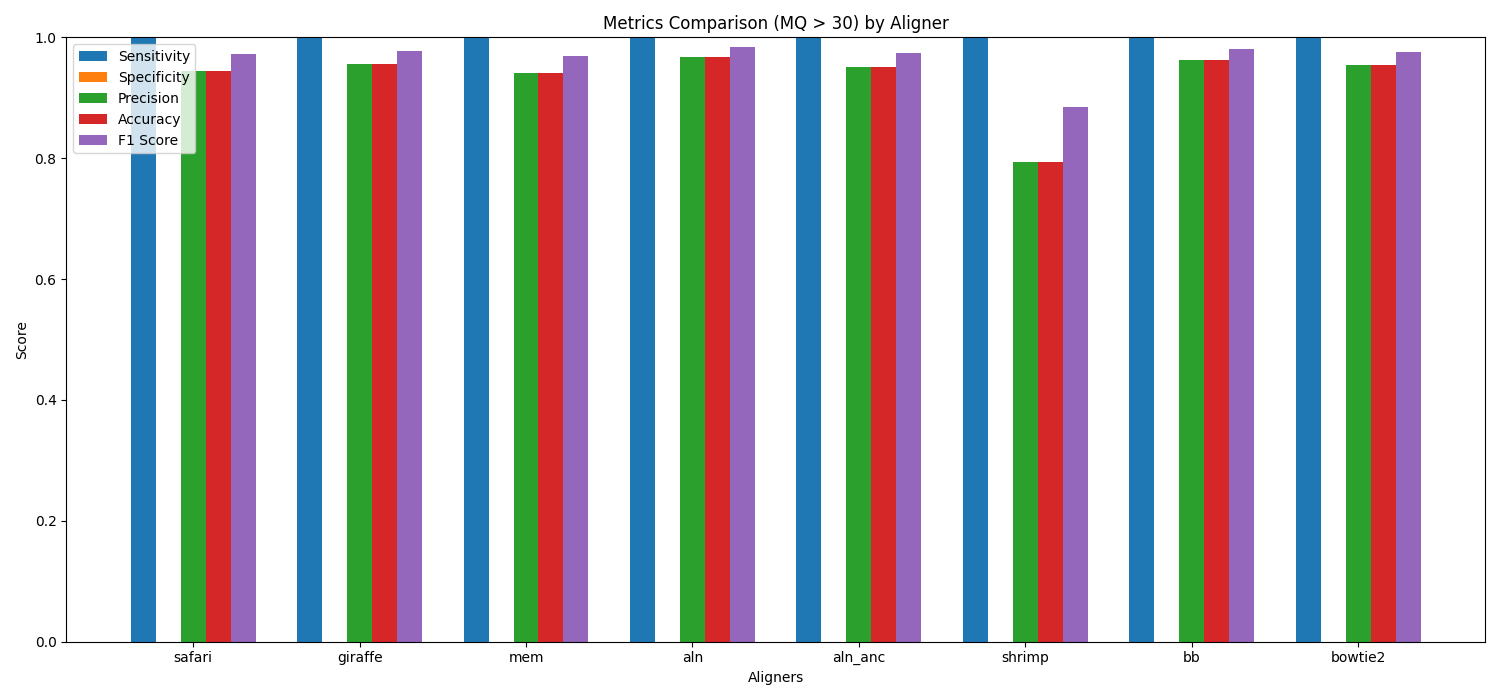
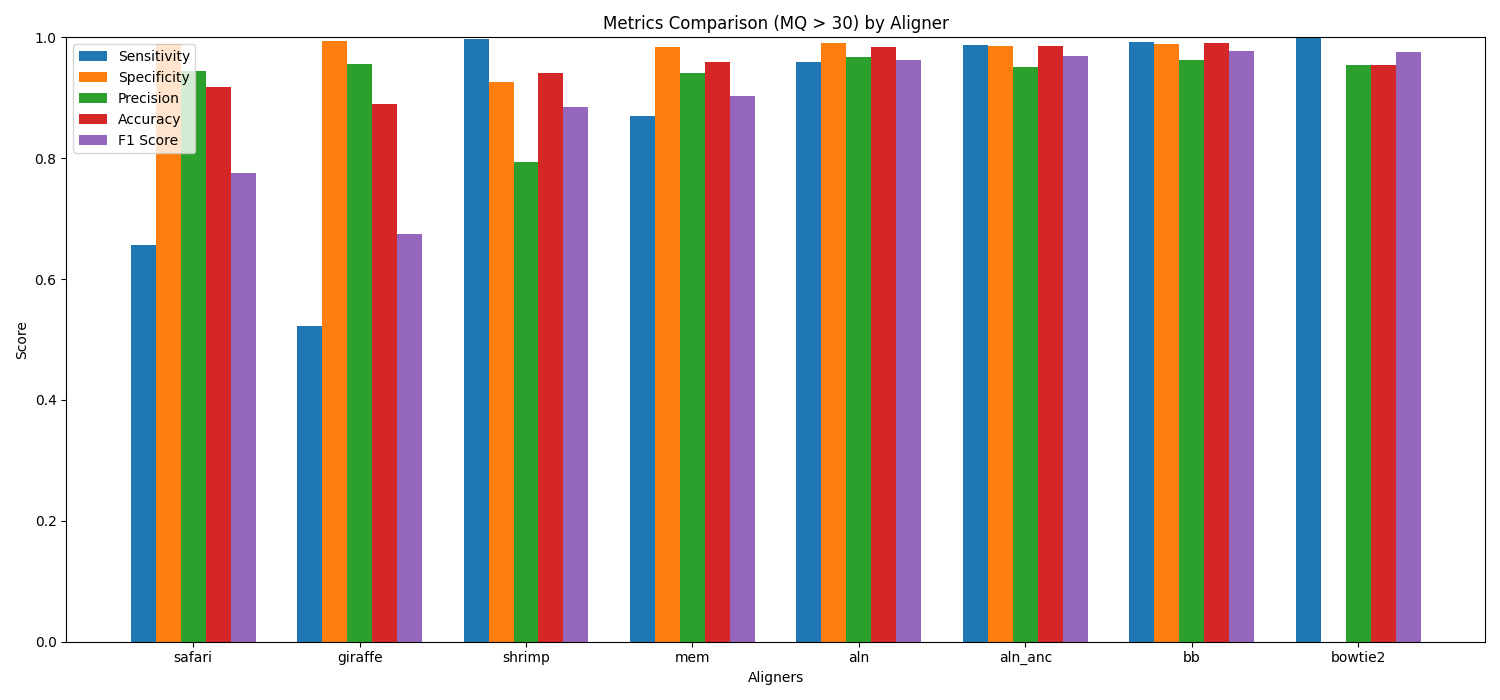
Update

diff --git a/linear_experiment/human_mito/linear_benchmark.py b/linear_experiment/human_mito/linear_benchmark.py
@@ -1,4 +1,5 @@
 import csv
+import numpy as np
 import matplotlib.pyplot as plt
 
 def calculate_metrics(TP, FP, TN, FN):
@@ -8,14 +9,6 @@ def calculate_metrics(TP, FP, TN, FN):
     accuracy = (TP + TN) / (TP + FP + TN + FN) if TP + FP + TN + FN != 0 else 0
     f1_score = 2 * (precision * sensitivity) / (precision + sensitivity) if precision + sensitivity != 0 else 0
     return sensitivity, specificity, precision, accuracy, f1_score
-
-def report_metrics(metrics, label):
-    print(f"{label}:")
-    print(f"Sensitivity: {metrics[0]:.4f}")
-    print(f"Specificity: {metrics[1]:.4f}")
-    print(f"Precision: {metrics[2]:.4f}")
-    print(f"Accuracy: {metrics[3]:.4f}")
-    print(f"F1 Score: {metrics[4]:.4f}\n")
 
 with open('alignment_stats.csv', 'r') as file:
     csv_reader = csv.DictReader(file)
@@ -31,35 +24,40 @@ with open('alignment_stats.csv', 'r') as file:
             }
         for key in summary[aligner]:
             summary[aligner][key] += int(row[key])
-    
+
     aligner_order = ['safari', 'giraffe'] + [aligner for aligner in summary if aligner not in ['safari', 'giraffe']]
     metrics = ["Sensitivity", "Specificity", "Precision", "Accuracy", "F1 Score"]
     
     for metric_type, suffix in [("Overall", ""), ("MQ > 30", "_MQ30")]:
-        print(f"------ {metric_type} ------\n")
         data_to_plot = {metric: [] for metric in metrics}
         
         for aligner in aligner_order:
-            print(f"Aligner: {aligner}")
             results = calculate_metrics(summary[aligner]["TP" + suffix], summary[aligner]["FP" + suffix], summary[aligner]["TN" + suffix], summary[aligner]["FN" + suffix])
-            report_metrics(results, metric_type)
             
             for metric in metrics:
                 data_to_plot[metric].append(results[metrics.index(metric)])
         
-        x = range(len(aligner_order))
+        x = np.arange(len(aligner_order))
+        width = 0.15
         
-        for metric in metrics:
-            fig, ax = plt.subplots(figsize=(10, 5))
-            ax.bar(x, data_to_plot[metric], label=metric, color=['b', 'r', 'g', 'y', 'c', 'm', 'k', 'orange', 'purple'])
-            ax.set_xlabel('Aligners')
-            ax.set_ylabel(metric)
-            ax.set_title(f'{metric} ({metric_type}) by Aligner')
-            ax.set_xticks(x)
-            ax.set_xticklabels(aligner_order)
-            ax.legend()
-            plt.tight_layout()
-            plt.savefig(f"linear_benchmark_{metric.replace(' ', '_').lower()}_{suffix}.png")
-            plt.show()
+        fig, ax = plt.subplots(figsize=(15, 7))
+        
+        for idx, metric in enumerate(metrics):
+            ax.bar(x + idx*width, data_to_plot[metric], width, label=metric)
+
+        ax.set_xlabel('Aligners')
+        ax.set_ylabel('Score')
+        ax.set_title(f'Metrics Comparison ({metric_type}) by Aligner')
+        ax.set_xticks(x + 2*width)
+        ax.set_xticklabels(aligner_order)
+        ax.legend()
+        plt.ylim([0, 1])
+        plt.tight_layout()
+
+        if metric_type == "Overall":
+            plt.savefig("linear_benchmark.png")
+        else:
+            plt.savefig("linear_benchmark_mq30.png")
+        plt.show()
 
 

diff --git a/linear_experiment/human_mito/evaluate.py b/linear_experiment/human_mito/evaluate.py
@@ -8,18 +8,17 @@ def parse_stat_file(file_path):
     
     stats = {}
     for line in lines:
-        if line.startswith('-----------------------------------------'):
-            continue
         parts = line.strip().split(":")
         if len(parts) != 2:
             continue
         key, value = parts
+        if not value.strip().isdigit():  # Skip lines without a numeric value after the colon
+            continue
         stats[key.strip()] = int(value.strip())
     
     return stats
 
 def get_aligner_name_and_damage_type(filename):
-    # Updated pattern for the new naming format
     pattern = re.compile(r'.*n([0-9]+)_l([0-9]+)_d([^_]+)_s([\d\.]+)_([\w]+)\.stat')
     match = pattern.match(filename)
     if match:
@@ -37,24 +36,24 @@ def compute_proportion(directory, output_csv_path):
         file_path = os.path.join(directory, file)
         stats = parse_stat_file(file_path)
         
-        total_reads = stats.get('Total reads', 0)
-        unmapped_reads = stats.get('Unmapped reads', 0)  # Extracting the unmapped reads
-        mapped_to_mt = stats.get('Mapped to MT', 0)
-        mapped_to_mt_correct_location = stats.get('Mapped to MT (Correct Location)', 0)
-        mapped_to_mt_correct_location_mq_30 = stats.get('Mapped to MT (Correct Location, MQ>30)', 0)
-        mapped_not_to_mt = stats.get('NOT Mapped to MT', 0)
-        mapped_not_to_mt_mq_30 = stats.get('NOT Mapped to MT (MQ>30)', 0)
+        tp = stats.get('True Positives (TP)', 0)
+        fp = stats.get('False Positives (FP)', 0)
+        tn = stats.get('True Negatives (TN)', 0)
+        fn = stats.get('False Negatives (FN)', 0)
+        
+        tp_mq30 = stats.get('True Positives (TP_MQ30)', 0)
+        fp_mq30 = stats.get('False Positives (FP_MQ30)', 0)
+        tn_mq30 = stats.get('True Negatives (TN_MQ30)', 0)
+        fn_mq30 = stats.get('False Negatives (FN_MQ30)', 0)
         
         aligner_name, damage_type, fragment_length, subsampling_rate = get_aligner_name_and_damage_type(file)
         
-        data.append([damage_type, aligner_name, fragment_length, subsampling_rate, total_reads, unmapped_reads, mapped_to_mt, 
-                     mapped_to_mt_correct_location, mapped_to_mt_correct_location_mq_30, mapped_not_to_mt, mapped_not_to_mt_mq_30])
+        data.append([damage_type, aligner_name, fragment_length, subsampling_rate, tp, fp, tn, fn, tp_mq30, fp_mq30, tn_mq30, fn_mq30])
     
     with open(output_csv_path, 'w', newline='') as csvfile:
         csvwriter = csv.writer(csvfile)
         
-        csvwriter.writerow(['Damage_Type', 'Aligner_Name', 'Fragment_Length', 'Subsampling_Rate', 'Total_Reads', 'Unmapped_Reads', 'Mapped_to_MT', 
-                            'Mapped_to_MT_Correct_Location', 'Mapped_to_MT_Correct_Location_MQ>30', 'Mapped_NOT_to_MT', 'Mapped_NOT_to_MT_MQ>30'])
+        csvwriter.writerow(['Damage_Type', 'Aligner_Name', 'Fragment_Length', 'Subsampling_Rate', 'TP', 'FP', 'TN', 'FN', 'TP_MQ30', 'FP_MQ30', 'TN_MQ30', 'FN_MQ30'])
         
         for row in data:
             csvwriter.writerow(row)

diff --git a/linear_experiment/human_mito/parseBamMito.py b/linear_experiment/human_mito/parseBamMito.py
@@ -32,12 +32,10 @@ def main(bam_file_path):
                 FP_MQ30 += 1
         elif is_from_mt and not is_mapped_to_mt:
             FN += 1
-            if read.mapping_quality > 30:
-                FN_MQ30 += 1
+            FN_MQ30 += 1  # Unmapped reads from MT 
         elif not is_from_mt and not is_mapped_to_mt:
             TN += 1
-            if read.mapping_quality > 30:
-                TN_MQ30 += 1
+            TN_MQ30 += 1  # Unmapped reads not from MT
 
     # Close the BAM file
     bamInputFile.close()
